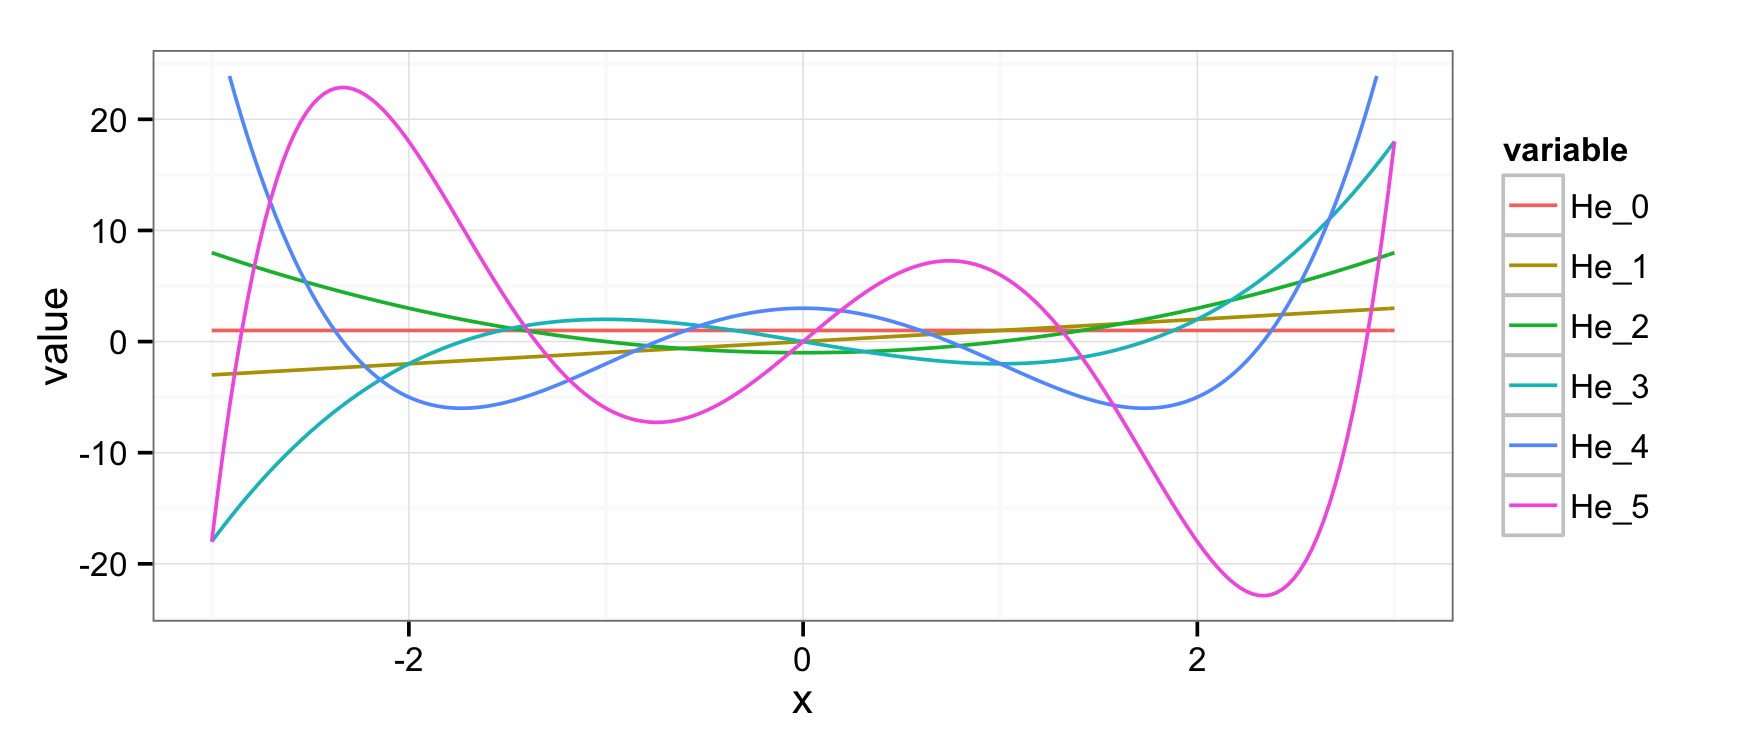
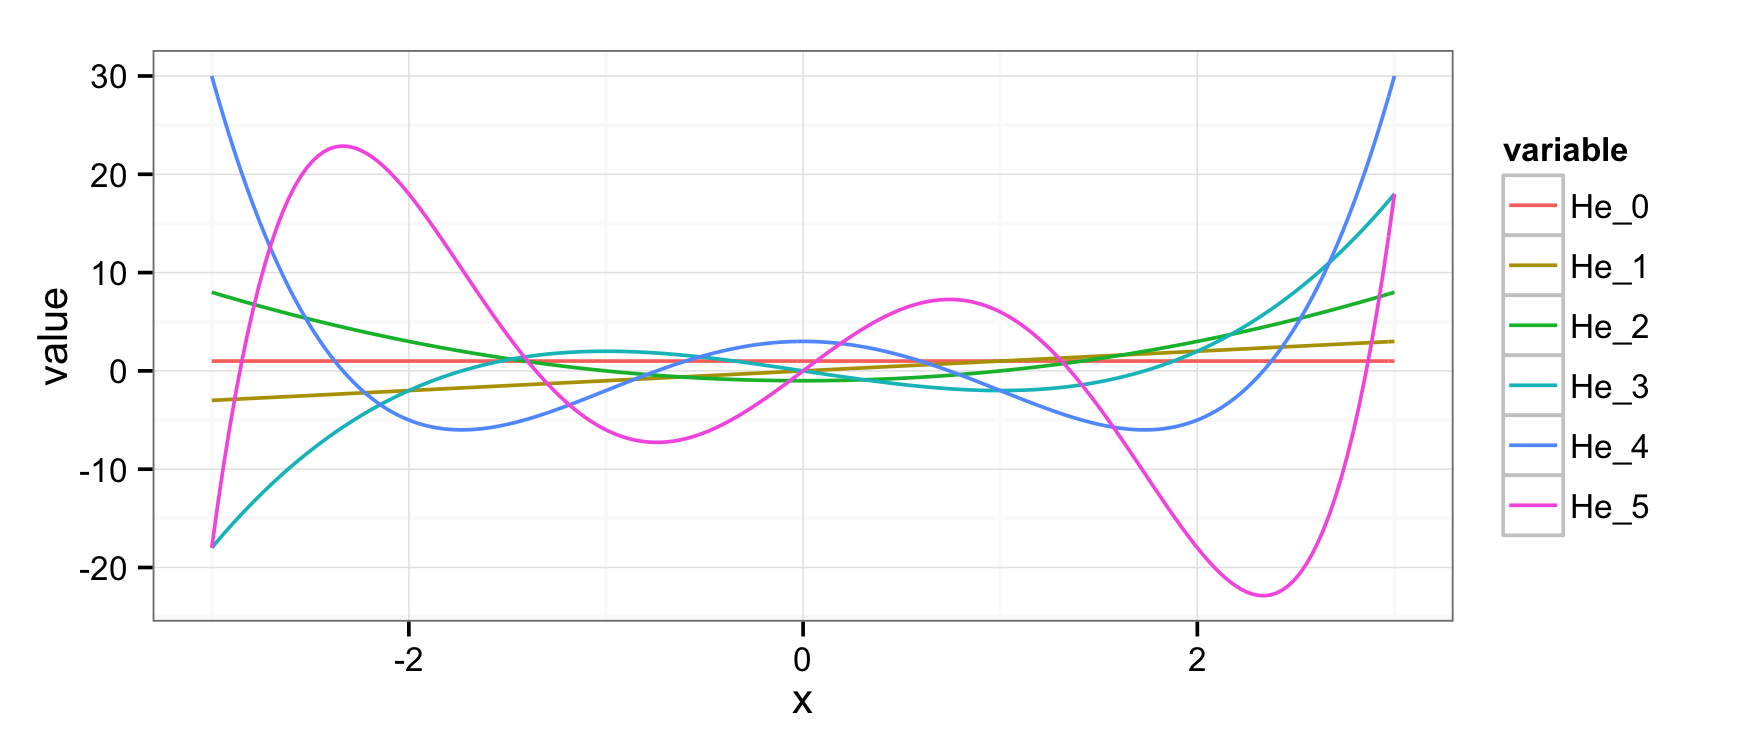
readme: laguerre polynomials

diff --git a/README.md b/README.md
@@ -215,7 +215,8 @@ df <- sapply(s, as.function(jacPolys)) %>% t %>% cbind(s, .) %>% as.data.frame
 #> f(x)
 names(df) <- c("x", paste0("P_", 0:N))
 mdf <- melt(df, id = "x")
-qplot(x, value, data = subset(mdf, abs(value) <= 25), geom = "path", color = variable)
+qplot(x, value, data = mdf, geom = "path", color = variable) +
+  coord_cartesian(ylim = c(-25, 25))
 ```
 
 ![](README-jacobi-1.png)
@@ -257,10 +258,32 @@ df <- sapply(s, as.function(hermPolys)) %>% t %>% cbind(s, .) %>% as.data.frame
 #> f(x)
 names(df) <- c("x", paste0("He_", 0:N))
 mdf <- melt(df, id = "x")
-qplot(x, value, data = subset(mdf, abs(value) <= 25), geom = "path", color = variable)
+qplot(x, value, data = mdf, geom = "path", color = variable)
 ```
 
 ![](README-hermite-1.png)
+
+#### [(Generalized) Laguerre polynomials](http://en.wikipedia.org/wiki/Laguerre_polynomials)
+
+``` r
+s <- seq(-5, 20, length.out = 201); N <- 5
+(lagPolys <- laguerre(0:N))
+#> 1
+#> 1  -  x
+#> 1  -  2 x  +  0.5 x^2
+#> 1  -  3 x  +  1.5 x^2  -  0.1666667 x^3
+#> 1  -  4 x  +  3 x^2  -  0.6666667 x^3  +  0.04166667 x^4
+#> 1  -  5 x  +  5 x^2  -  1.666667 x^3  +  0.2083333 x^4  -  0.008333333 x^5
+
+df <- sapply(s, as.function(lagPolys)) %>% t %>% cbind(s, .) %>% as.data.frame
+#> f(x)
+names(df) <- c("x", paste0("L_", 0:N))
+mdf <- melt(df, id = "x")
+qplot(x, value, data = mdf, geom = "path", color = variable) +
+  coord_cartesian(ylim = c(-25, 25))
+```
+
+![](README-laguerre-1.png)
 
 #### [Bernstein polynomials](http://en.wikipedia.org/wiki/Bernstein_polynomial)
 
@@ -377,7 +400,7 @@ df$y <- with(df, -x^2 + 2*x - 3 + rnorm(n, 0, 2))
 
 mod <- lm(y ~ x + I(x^2), data = df)
 (p <- mod %>% as.mpoly %>% round)
-#> 2.057 x  -  1.034 x^2  -  3.071
+#> 1.947 x  -  1.028 x^2  -  2.756
 qplot(x, y, data = df) +
   stat_function(fun = as.function(p), colour = 'red')
 #> f(x)
